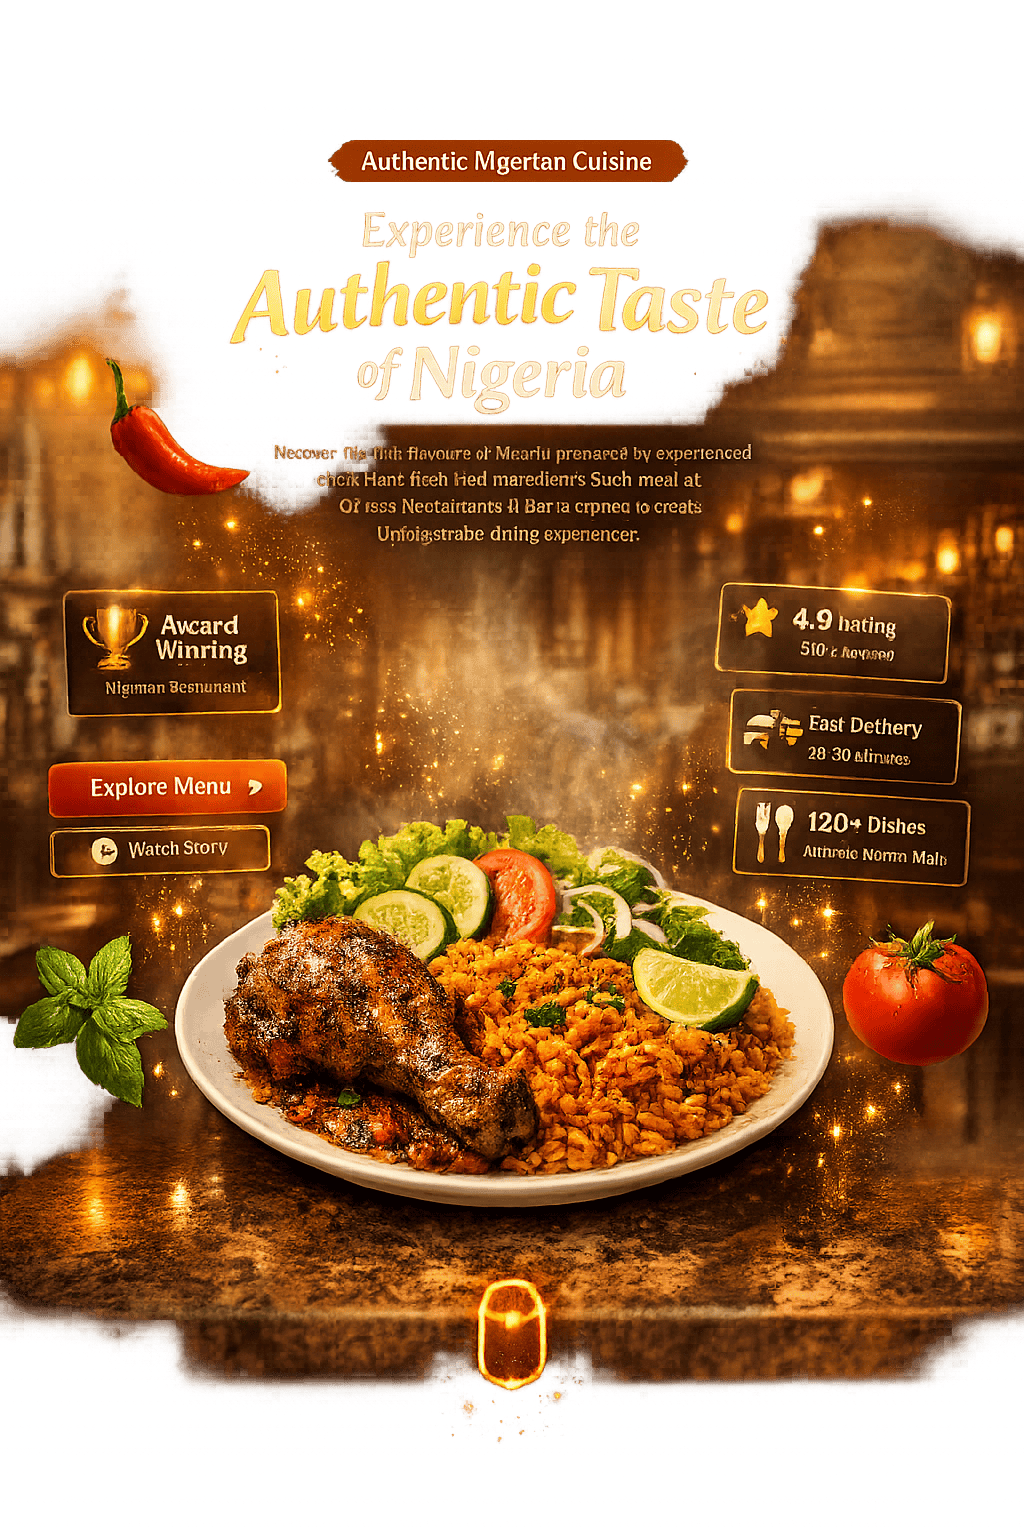
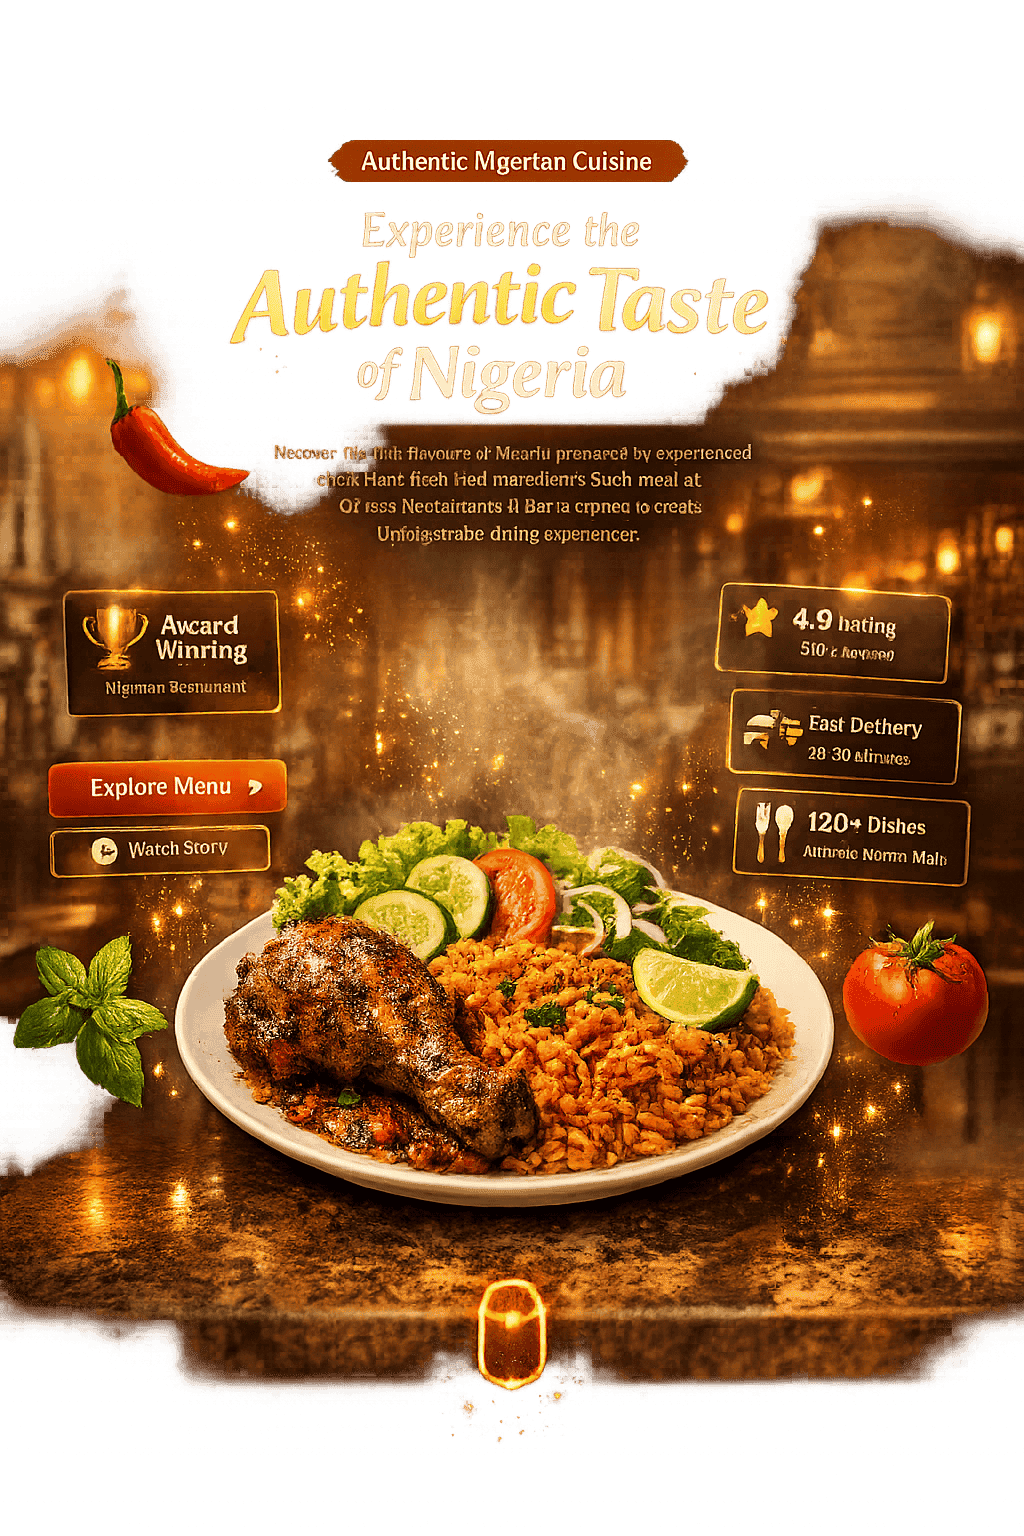
update to otasty website~:wq

diff --git a/src/components/Chef/chefData.js b/src/components/Chef/chefData.js
@@ -1,48 +1,37 @@
-import executiveChef from "../../assets/images/chefs/executive-chef.jpg";
-import sousChef from "../../assets/images/chefs/sous-chef.jpg";
-import pastryChef from "../../assets/images/chefs/pastry-chef.jpg";
-import grillChef from "../../assets/images/chefs/grill-chef.jpg";
+import chefejiro from "../../assets/images/chefs/chefejiro.jpg";
+import chefgabriel from "../../assets/images/chefs/chefgabriel.jpg";
+import chefcomfort from "../../assets/images/chefs/chefcomfort.jpg";
 
 const chefData = [
   {
     id: 1,
-    name: "Chef Emeka Okoro",
+    name: "Chef Ejiro Ogene Blessing",
     position: "Executive Chef",
-    image: executiveChef,
+    image: chefejiro,
     experience: "15+ Years Experience",
     specialty: "Traditional Nigerian Cuisine",
-    bio: "Chef Emeka combines traditional Nigerian recipes with modern culinary techniques to create unforgettable dining experiences.",
+    bio: "Chef Ejiro Ogene Blessing combines traditional Nigerian recipes with modern culinary techniques to create unforgettable dining experiences.",
   },
 
   {
     id: 2,
-    name: "Chef Adaobi Nwosu",
+    name: "Chef Comfort",
     position: "Sous Chef",
-    image: sousChef,
+    image: chefcomfort,
     experience: "12+ Years Experience",
     specialty: "Fine Dining",
-    bio: "Chef Adaobi is passionate about creating elegant dishes using fresh local ingredients and exceptional presentation.",
+    bio: "Chef Comfort is passionate about creating elegant dishes using fresh local ingredients and exceptional presentation.",
   },
 
   {
     id: 3,
-    name: "Chef Ibrahim Bello",
+    name: "Chef Gabriel",
     position: "Grill Master",
-    image: grillChef,
+    image: chefgabriel,
     experience: "10+ Years Experience",
     specialty: "Grills & Barbecue",
-    bio: "From perfectly grilled fish to delicious suya and asun, Chef Ibrahim delivers rich smoky flavours every time.",
-  },
-
-  {
-    id: 4,
-    name: "Chef Chioma Eze",
-    position: "Pastry Chef",
-    image: pastryChef,
-    experience: "8+ Years Experience",
-    specialty: "Desserts & Beverages",
-    bio: "Chef Chioma crafts premium desserts and refreshing signature drinks that perfectly complement every meal.",
-  },
+    bio: "From perfectly grilled fish to delicious suya and asun, Chef Gabriel delivers rich smoky flavours every time.",
+  }
 ];
 
 export default chefData;

diff --git a/src/data/specialMenu.js b/src/data/specialMenu.js
@@ -1,15 +1,15 @@
-import jollof from "../assets/images/menu/jollof.png";
-import nativeRice from "../assets/images/menu/native-rice.png";
-import coconutRice from "../assets/images/menu/coconut-rice.png";
-import concoctionRice from "../assets/images/menu/native-rice.png";
-import bangaRice from "../assets/images/menu/native-rice.png";
-import pepperSoup from "../assets/images/menu/pepper-soup.png";
-import bangaSoup from "../assets/images/menu/banga.png";
-import egusi from "../assets/images/menu/egusi.png";
-import grilledFish from "../assets/images/menu/grilledfish.png";
-import asun from "../assets/images/menu/asun.png";
-import suya from "../assets/images/menu/suya.png";
-import chapman from "../assets/images/menu/champman.png";
+import jollof from "../assets/images/menu/jollof.jpg";
+import nativeRice from "../assets/images/menu/native-rice.jpg";
+import coconutRice from "../assets/images/menu/coconut-rice.jpg";
+import concoctionRice from "../assets/images/menu/native-rice.jpg";
+import bangaRice from "../assets/images/menu/native-rice.jpg";
+import pepperSoup from "../assets/images/menu/pepper-soup.jpg";
+import bangaSoup from "../assets/images/menu/banga.jpg";
+import egusi from "../assets/images/menu/egusi.jpg";
+import grilledFish from "../assets/images/menu/grilledfish.jpg";
+import asun from "../assets/images/menu/asun.jpg";
+import suya from "../assets/images/menu/suya.jpg";
+import chapman from "../assets/images/menu/champman.jpg";
 
 const specialMenu = [
   {

diff --git a/src/components/Gallery/galleryData.js b/src/components/Gallery/galleryData.js
@@ -1,12 +1,12 @@
-import interior from "../../assets/images/whychooseus/restaurant-interior.png";
-import chef from "../../assets/images/menu/cooking-chef.png";
-import jollof from "../../assets/images/menu/jollof.png";
-import grilledFish from "../../assets/images/menu/grilledfish.png";
-import egusi from "../../assets/images/menu/egusi.png";
-import asun from "../../assets/images/menu/asun.png";
-import suya from "../../assets/images/menu/suya.png";
-import chapman from "../../assets/images/menu/champman.png";
-import customers from "../../assets/images/menu/happy-customer.png";
+import interior from "../../assets/images/whychooseus/restaurant-interior.jpg"
+import chef from "../../assets/images/menu/cooking-chef.jpg";
+import jollof from "../../assets/images/menu/jollof.jpg";
+import grilledFish from "../../assets/images/menu/grilledfish.jpg";
+import egusi from "../../assets/images/menu/egusi.jpg";
+import asun from "../../assets/images/menu/asun.jpg";
+import suya from "../../assets/images/menu/suya.jpg";
+import chapman from "../../assets/images/menu/champman.jpg";
+import customers from "../../assets/images/menu/happy-customer.jpg";
 
 const galleryData = [
   {

diff --git a/src/pages/Home/Home.jsx b/src/pages/Home/Home.jsx
@@ -11,7 +11,7 @@ import SpecialMenu from "../../components/SpecialMenu/SpecialMenu";
 import Testimonials from "../../components/testimonials/Testimonials";
 import Reservation from "../../components/Reservation/Reservation";
 import Gallery from "../../components/Gallery/Gallery";
-// import Chef from "../../components/Chef/Chef";
+import Chef from "../../components/Chef/Chef";
 import Contact from "../../components/Contact/Contact";
 import Footer from "../../components/Footer/Footer";
 
@@ -32,7 +32,7 @@ const Home = () => {
              <Testimonials/>
              <Reservation/>
              <Gallery/>
-{/*              <Chef/> */}
+             <Chef/>
              <Contact/>
              <Footer/>
            </main>

diff --git a/src/data/featuredDishes.js b/src/data/featuredDishes.js
@@ -1,8 +1,8 @@
-import jollof from "../assets/images/menu/jollof.png";
-import peppersoup from "../assets/images/menu/pepper-soup.png";
-import bangarice from "../assets/images/menu/native-rice.png";
-import coconut from "../assets/images/menu/coconut-rice.png";
-import banga from "../assets/images/menu/banga.png";
+import jollof from "../assets/images/menu/jollof.jpg";
+import peppersoup from "../assets/images/menu/pepper-soup.jpg";
+import bangarice from "../assets/images/menu/native-rice.jpg";
+import coconut from "../assets/images/menu/coconut-rice.jpg";
+import banga from "../assets/images/menu/banga.jpg";
 
 const featuredDishes = [
   {

diff --git a/src/components/testimonials/testimonialData.js b/src/components/testimonials/testimonialData.js
@@ -1,6 +1,6 @@
-import customer1 from "../../assets/images/testimonials/adaeze.png";
-import customer2 from "../../assets/images/testimonials/musa.png";
-import customer3 from "../../assets/images/testimonials/okafor.png";
+import customer1 from "../../assets/images/testimonials/adaeze.jpg";
+import customer2 from "../../assets/images/testimonials/musa.jpg";
+import customer3 from "../../assets/images/testimonials/okafor.jpg";
 
 const testimonialData = [
   {

diff --git a/src/components/home/ChefSpecial.jsx b/src/components/home/ChefSpecial.jsx
@@ -2,7 +2,7 @@ import { motion } from "framer-motion";
 import { FaCheckCircle, FaArrowRight } from "react-icons/fa";
 import { Link } from "react-router-dom";
 
-import specialImage from "../../assets/images/menu/chef-special.png";
+import specialImage from "../../assets/images/menu/chef-special.jpg";
 
 const ChefSpecial = () => {
   return (

diff --git a/src/components/WhyChooseUs/WhyChooseUs.jsx b/src/components/WhyChooseUs/WhyChooseUs.jsx
@@ -7,7 +7,7 @@ import {
   FaArrowRight,
 } from "react-icons/fa";
 
-import restaurantImg from "../../assets/images/whychooseus/restaurant-interior.png";
+import restaurantImg from "../../assets/images/whychooseus/restaurant-interior.jpg";
 
 const features = [
   {

diff --git a/src/components/Chef/Chef.jsx b/src/components/Chef/Chef.jsx
@@ -1,7 +1,7 @@
 import FeaturedChef from "./FeaturedChef";
 import ChefCard from "./ChefCard";
 import chefData from "./chefData";
-
+import { motion, AnimatePresence } from "framer-motion";
 const featuredChef = chefData[0];
 const otherChef = chefData.slice(1);
 
